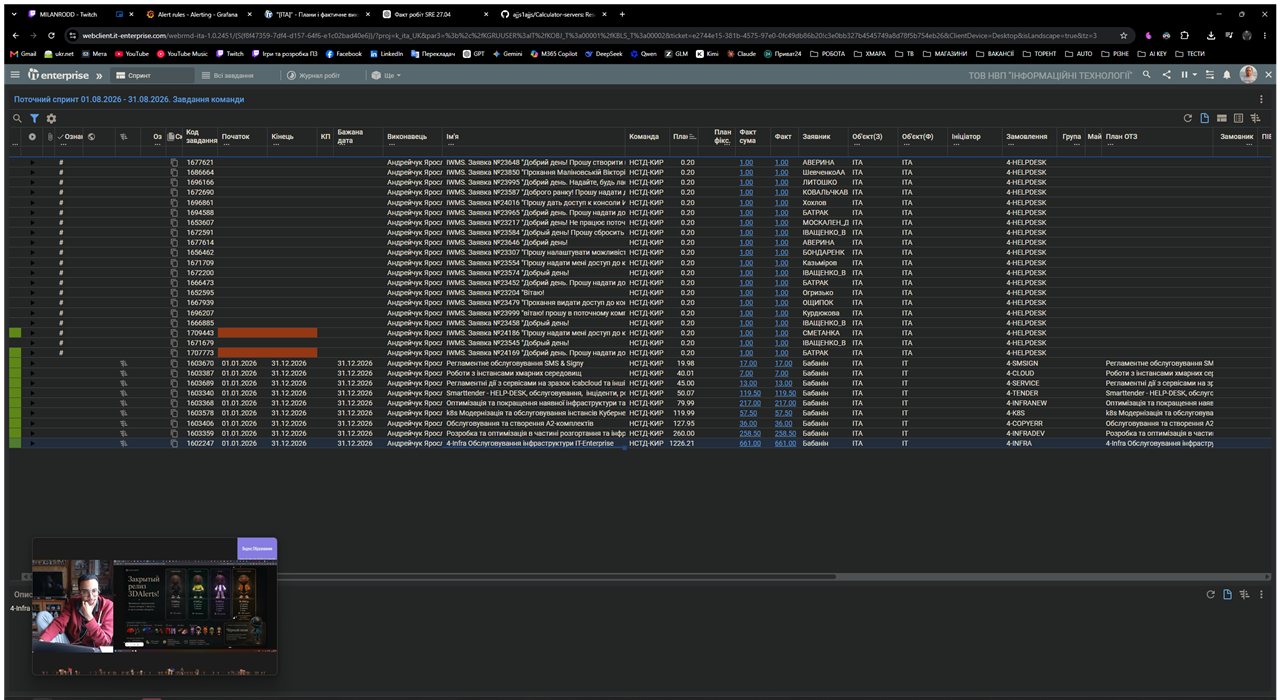
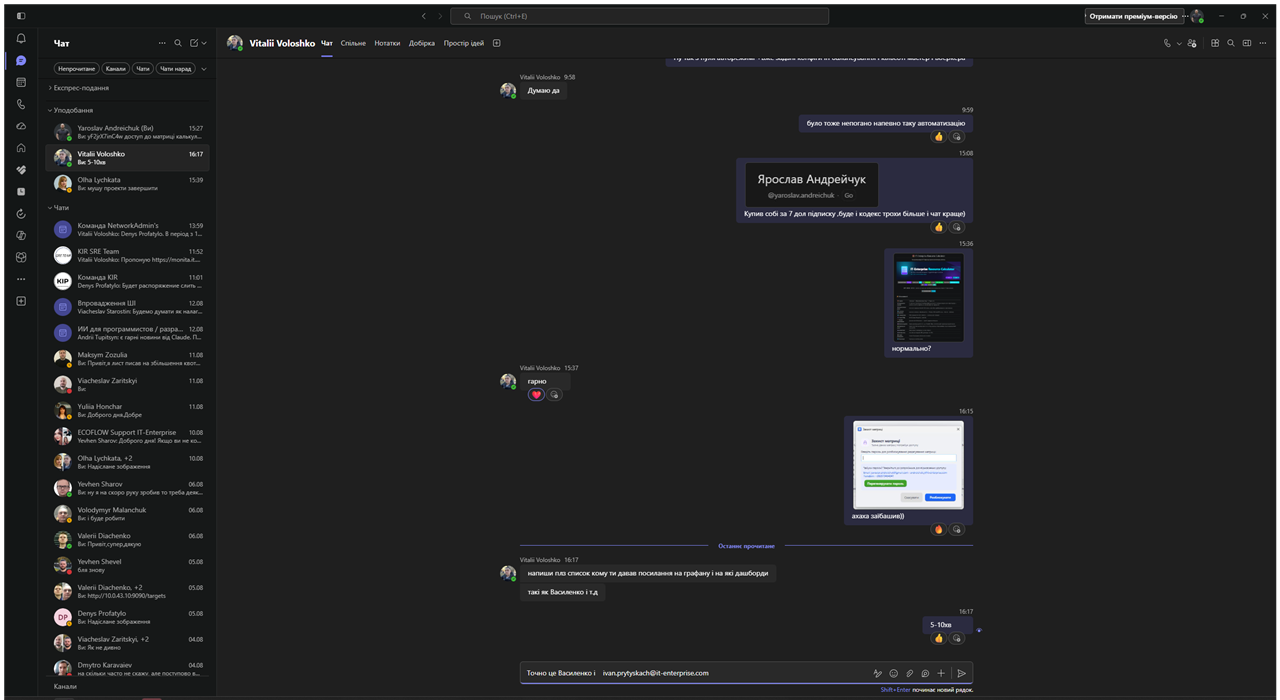
Пароль питається при спробі редагувати будь-яку комірку матриці
- Усі DataGrid матриці перехоплюють BeginningEdit: клік у значення вимагає пароль
  (як і кнопки Зберегти/Перерахувати/Скинути)
- EnsureUnlocked() став публічним; скасування діалогу скасовує редагування

diff --git a/ResourceCalculator/Views/MatrixTabControl.xaml b/ResourceCalculator/Views/MatrixTabControl.xaml
@@ -31,7 +31,7 @@
             </StackPanel>
 
             <Expander Header="{loc:Loc matrix.msSql}" IsExpanded="True">
-                <DataGrid x:Name="GridMatrixMsSql" Height="160" IsReadOnly="False" CanUserAddRows="True"
+                <DataGrid x:Name="GridMatrixMsSql" Height="160" IsReadOnly="False" CanUserAddRows="True" BeginningEdit="Grid_BeginningEdit"
                           ItemsSource="{Binding MatrixVM.MsSqlRanges}">
                     <DataGrid.Columns>
                         <DataGridTextColumn Header="{loc:Loc col.minUsers}" Binding="{Binding MinUsers, Mode=TwoWay}" Width="70"/>
@@ -47,7 +47,7 @@
             </Expander>
 
             <Expander Header="{loc:Loc matrix.appServer}">
-                <DataGrid Height="130" IsReadOnly="False" CanUserAddRows="True"
+                <DataGrid Height="130" IsReadOnly="False" CanUserAddRows="True" BeginningEdit="Grid_BeginningEdit"
                           ItemsSource="{Binding MatrixVM.AppServerRanges}">
                     <DataGrid.Columns>
                         <DataGridTextColumn Header="{loc:Loc col.minUsers}" Binding="{Binding MinUsers, Mode=TwoWay}" Width="70"/>
@@ -63,7 +63,7 @@
             </Expander>
 
             <Expander Header="{loc:Loc matrix.webServer}">
-                <DataGrid Height="130" IsReadOnly="False" CanUserAddRows="True"
+                <DataGrid Height="130" IsReadOnly="False" CanUserAddRows="True" BeginningEdit="Grid_BeginningEdit"
                           ItemsSource="{Binding MatrixVM.WebServerRanges}">
                     <DataGrid.Columns>
                         <DataGridTextColumn Header="{loc:Loc col.minUsers}" Binding="{Binding MinUsers, Mode=TwoWay}" Width="70"/>
@@ -79,7 +79,7 @@
             </Expander>
 
             <Expander Header="{loc:Loc matrix.postgres}">
-                <DataGrid Height="130" IsReadOnly="False" CanUserAddRows="True"
+                <DataGrid Height="130" IsReadOnly="False" CanUserAddRows="True" BeginningEdit="Grid_BeginningEdit"
                           ItemsSource="{Binding MatrixVM.PostgresRanges}">
                     <DataGrid.Columns>
                         <DataGridTextColumn Header="{loc:Loc col.minUsers}" Binding="{Binding MinUsers, Mode=TwoWay}" Width="70"/>
@@ -94,7 +94,7 @@
             </Expander>
 
             <Expander Header="{loc:Loc matrix.oracle}">
-                <DataGrid Height="130" IsReadOnly="False" CanUserAddRows="True"
+                <DataGrid Height="130" IsReadOnly="False" CanUserAddRows="True" BeginningEdit="Grid_BeginningEdit"
                           ItemsSource="{Binding MatrixVM.OracleRanges}">
                     <DataGrid.Columns>
                         <DataGridTextColumn Header="{loc:Loc col.minUsers}" Binding="{Binding MinUsers, Mode=TwoWay}" Width="70"/>
@@ -109,7 +109,7 @@
             </Expander>
 
             <Expander Header="{loc:Loc matrix.k8sDocumentFlow}" IsExpanded="True">
-                <DataGrid Height="160" IsReadOnly="False" CanUserAddRows="True"
+                <DataGrid Height="160" IsReadOnly="False" CanUserAddRows="True" BeginningEdit="Grid_BeginningEdit"
                           ItemsSource="{Binding MatrixVM.K8sDocumentFlowComponents}">
                     <DataGrid.Columns>
                         <DataGridTextColumn Header="{loc:Loc col.category}" Binding="{Binding Category, Mode=TwoWay}" Width="100"/>
@@ -125,7 +125,7 @@
             </Expander>
 
             <Expander Header="{loc:Loc matrix.infra}" IsExpanded="True">
-                <DataGrid x:Name="GridMatrixInfra" Height="150" IsReadOnly="False" CanUserAddRows="True"
+                <DataGrid x:Name="GridMatrixInfra" Height="150" IsReadOnly="False" CanUserAddRows="True" BeginningEdit="Grid_BeginningEdit"
                           ItemsSource="{Binding MatrixVM.InfraNodes}">
                     <DataGrid.Columns>
                         <DataGridTextColumn Header="{loc:Loc col.name}" Binding="{Binding Name, Mode=TwoWay}" Width="120"/>
@@ -140,7 +140,7 @@
             </Expander>
 
             <Expander Header="{loc:Loc matrix.infraWindows}">
-                <DataGrid Height="130" IsReadOnly="False" CanUserAddRows="True"
+                <DataGrid Height="130" IsReadOnly="False" CanUserAddRows="True" BeginningEdit="Grid_BeginningEdit"
                           ItemsSource="{Binding MatrixVM.WindowsInfraNodes}">
                     <DataGrid.Columns>
                         <DataGridTextColumn Header="{loc:Loc col.name}" Binding="{Binding Name, Mode=TwoWay}" Width="140"/>
@@ -154,7 +154,7 @@
             </Expander>
 
             <Expander Header="{loc:Loc matrix.infraOptional}">
-                <DataGrid Height="130" IsReadOnly="False" CanUserAddRows="True"
+                <DataGrid Height="130" IsReadOnly="False" CanUserAddRows="True" BeginningEdit="Grid_BeginningEdit"
                           ItemsSource="{Binding MatrixVM.OptionalInfraNodes}">
                     <DataGrid.Columns>
                         <DataGridTextColumn Header="{loc:Loc col.name}" Binding="{Binding Name, Mode=TwoWay}" Width="140"/>

diff --git a/ResourceCalculator/Views/MatrixTabControl.xaml.cs b/ResourceCalculator/Views/MatrixTabControl.xaml.cs
@@ -1,4 +1,5 @@
 using System.Windows.Controls;
+using ResourceCalculator.ViewModels;
 
 namespace ResourceCalculator.Views;
 
@@ -9,5 +10,14 @@ public partial class MatrixTabControl : UserControl
         InitializeComponent();
         // ItemsSource усіх таблиць прив'язано в XAML (MatrixVM.*) — вони самі оновлюються при
         // реімпорті/скиданні матриці, бо MatrixViewModel піднімає PropertyChanged для колекцій.
+    }
+
+    // Захист: спроба змінити будь-яке значення в матриці потребує пароля (як і кнопки
+    // «Зберегти/Перерахувати/Скинути»). Якщо пароль не підтверджено — редагування скасовується.
+    private void Grid_BeginningEdit(object sender, DataGridBeginningEditEventArgs e)
+    {
+        if (DataContext is not MainViewModel vm) return;
+        if (!vm.MatrixVM.EnsureUnlocked())
+            e.Cancel = true;
     }
 }

diff --git a/ResourceCalculator/ViewModels/MatrixViewModel.cs b/ResourceCalculator/ViewModels/MatrixViewModel.cs
@@ -161,7 +161,7 @@ public class MatrixViewModel : INotifyPropertyChanged
 
     // Розблокування паролем (один раз на сесію). Показує діалог з контактами розробника,
     // якщо пароль забуто. Помилка введення не блокує повторні спроби.
-    private bool EnsureUnlocked()
+    public bool EnsureUnlocked()
     {
         if (IsUnlocked) return true;
         var dialog = new Views.PasswordDialog(_access, System.Windows.Application.Current.MainWindow);

diff --git a/AGENTS.md b/AGENTS.md
@@ -31,6 +31,9 @@
 ## Захист матриці (фіча від користувача)
 
 - Зміна чутливих даних матриці (Save/Recalculate/Reset) потребує пароля.
+- Спроба відредагувати будь-яке значення в матриці (клік у комірку) теж потребує пароля —
+  перехоплюється `Grid_BeginningEdit` у `Views/MatrixTabControl.xaml.cs` (усі DataGrid).
+- `AccessService.EnsureUnlocked()` — публічний, викликається і командами, і редактором комірок.
 - `ResourceCalculator/Services/AccessService.cs` — SHA-256 + сіль, файл `settings.json` у `%LOCALAPPDATA%\ResourceCalculator\data\`.
 - Дефолтний пароль: `yF2jrX7inC4w`.
 - Діалоги: `Views/PasswordDialog.*` (розблокування + кнопка **«Перегенерувати пароль»**) та `Views/ChangePasswordDialog.*`.
